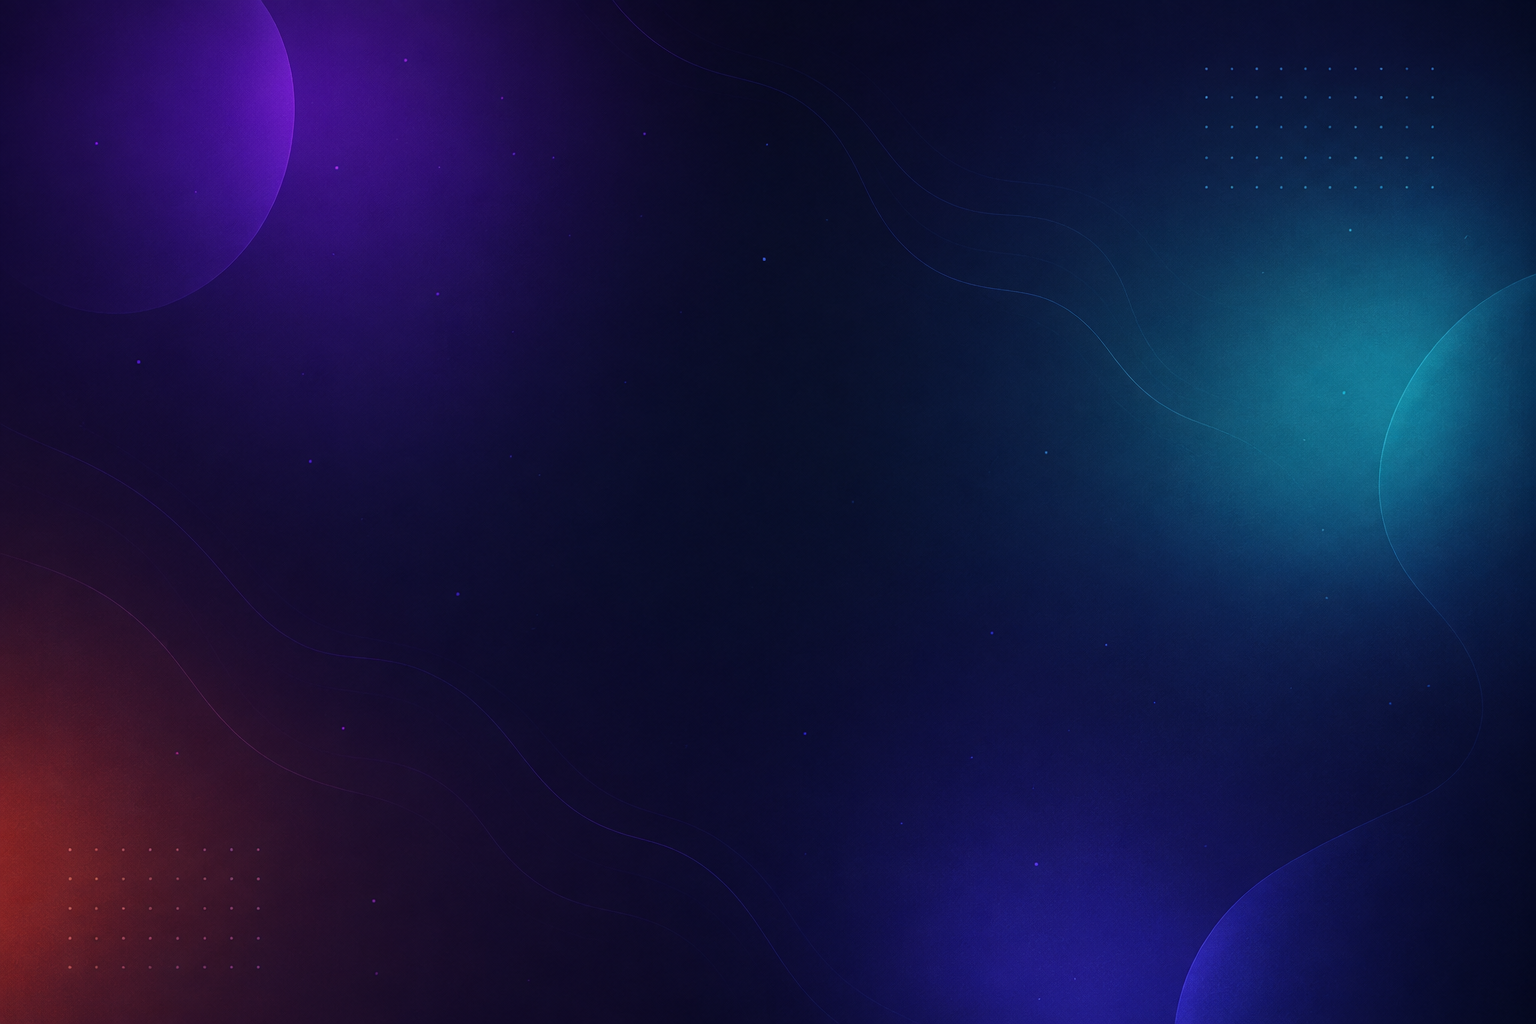
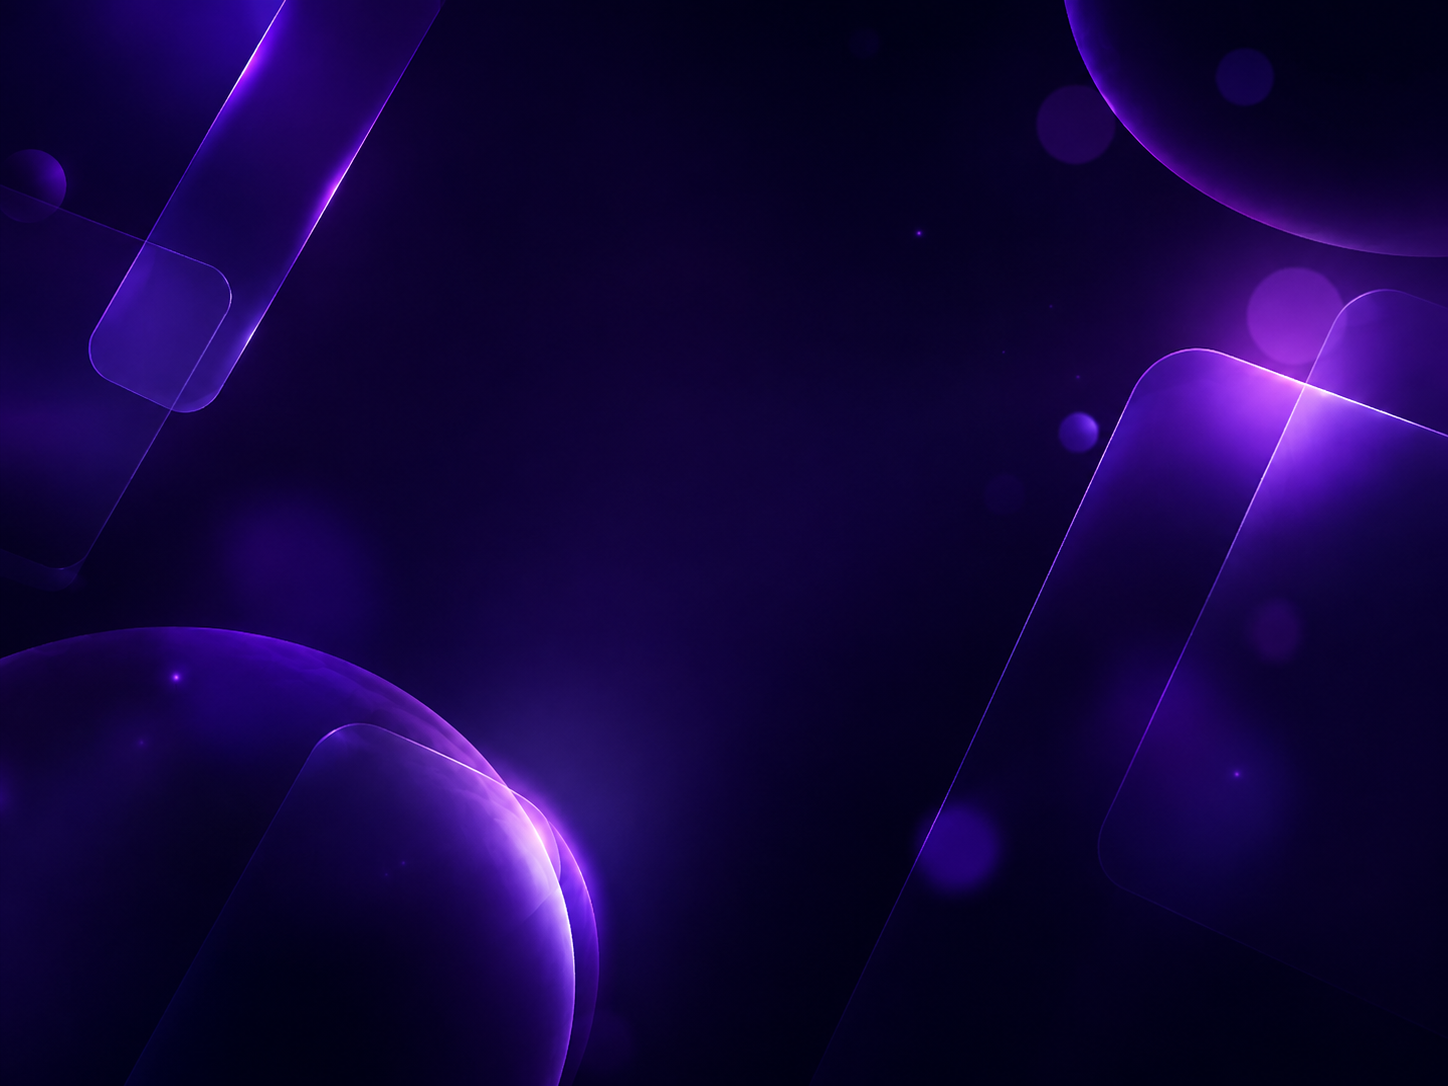
New: UI da sidebar finalizado

diff --git a/src/components/dashboard/dashboardSideBar.vue b/src/components/dashboard/dashboardSideBar.vue
@@ -1,23 +1,110 @@
+<script setup lang="ts">
+
+  const user = {
+    name: 'Arthur'
+  }
+
+
+</script>
+
 <template>
-  <v-card color="transparent" flat>
-    <v-layout>
-      <v-navigation-drawer theme="dark" permanent class="glass-card">
-        <v-list nav class="bg-transparent">
-          <v-list-item prepend-icon="mdi-home" title="Dashboard" value="dashboard"/>
+  <v-card color="transparent" flat class="w-100 h-100">
+    <v-layout class="h-100">
+      <v-navigation-drawer theme="dark" permanent class="dark-glass-card rounded-xl">
+        <v-list nav class="bg-transparent d-flex flex-column justify-space-between h-100">
+          
+          <div class="d-flex flex-column ga-5">
+            <div class="d-flex w-100 justify-center">
+              <p>Axis</p>
+            </div>
 
-          <v-list-item prepend-icon="mdi-calendar" title="Calendar" value="calendar"/>
+            <div class="d-flex flex-column ga-2">
+              <v-list-item title="Dashboard" class="item">
+                <template #prepend>
+                  <v-icon class="menu-icon">mdi-home-outline</v-icon>
+                </template>
+              </v-list-item>
 
-          <v-list-item prepend-icon="mdi-flag" title="Goals" value="goals"/>
+              <v-list-item title="Calendar" class="item">
+                <template #prepend>
+                  <v-icon class="menu-icon">mdi-calendar-outline</v-icon>
+                </template>
+              </v-list-item>
 
-          <v-list-item prepend-icon="mdi-book" title="Subjects" value="subjects"/>
+              <v-list-item title="Goals" class="item">
+                <template #prepend>
+                  <v-icon class="menu-icon">mdi-flag-outline</v-icon>
+                </template>
+              </v-list-item>
 
-          <v-list-item prepend-icon="mdi-" title="Progress" value="progress"/>
+              <v-list-item title="Subjects" class="item">
+                <template #prepend>
+                  <v-icon class="menu-icon">mdi-book-outline</v-icon>
+                </template>
+              </v-list-item>
 
-          <v-list-item prepend-icon="mdi-settings" title="Settings" value="settings"/>
+              <v-list-item title="Progress" class="item">
+                <template #prepend>
+                  <v-icon class="menu-icon">mdi-chart-line</v-icon>
+                </template>
+              </v-list-item>
+
+              <v-list-item title="Settings" class="item">
+                <template #prepend>
+                  <v-icon class="menu-icon">mdi-cog-outline</v-icon>
+                </template>
+              </v-list-item>
+            </div>
+          </div>
+
+          <div class="mb-2">
+            <v-list-item  :title="user.name" value="profile" class="item" prepend-avatar="https://randomuser.me/api/portraits/women/8.jpg"/>
+          </div>
         </v-list>
       </v-navigation-drawer>
-
-      <v-main style="height: 500px" />
     </v-layout>
   </v-card>
 </template>
+
+<style scoped>
+.item {
+  border-radius: 12px;
+  color: #b8b8c7;
+
+  transition: all 0.3s ease;
+
+  border: 1px solid transparent;
+
+  cursor: pointer;
+}
+
+.item:hover {
+
+    transform: translateY(-3px);
+  color: white;
+
+  background: linear-gradient(
+    135deg,
+    rgba(139, 92, 246, 0.28),
+    rgba(99, 102, 241, 0.18)
+  );
+
+  border-color: rgba(167, 139, 250, 0.55);
+
+  box-shadow:
+    0 0 12px rgba(139, 92, 246, 0.35),
+    inset 0 0 12px rgba(139, 92, 246, 0.08);
+}
+
+.item:hover {
+  color: #ffff;
+
+   .menu-icon{
+    color: #ffff;
+   }
+}
+
+.menu-icon {
+  color: #b8b8c7;
+}
+</style>

diff --git a/src/pages/dashboard.vue b/src/pages/dashboard.vue
@@ -8,12 +8,10 @@ import DashboardUpperBar from '@/components/dashboard/dashboardUpperBar.vue';
 </script>
 
 <template>
-
-    <v-row class="backgroudDashboard pa-10">
+    <v-row class="backgroudDashboard pa-10 overflow-hidden" style="height: 100vh;">
 
             <v-col cols="2">
-                <DashboardSideBar />
-                        
+                <DashboardSideBar />    
             </v-col>
 
             <v-col cols="10" >
@@ -22,8 +20,7 @@ import DashboardUpperBar from '@/components/dashboard/dashboardUpperBar.vue';
                 </v-row>
 
                 <v-row>
-                    <v-col cols="9">
-                        <dashboardCalendar />
+                    <v-col cols="9" class="d-flex">
                     </v-col>
 
                     <v-col cols="3">

diff --git a/src/styles/global.scss b/src/styles/global.scss
@@ -1,4 +1,12 @@
-  .glass-card {
+@import url('https://fonts.googleapis.com/css2?family=Manrope:wght@400;500;600;700&display=swap');
+
+html,
+body,
+.v-application {
+  font-family: 'Manrope', sans-serif;
+}
+
+.light-glass-card {
     background: rgba(255, 255, 255, 0.045);
 
   backdrop-filter: blur(20px);
@@ -9,8 +17,8 @@
   box-shadow: 0 8px 32px rgba(0, 0, 0, 0.25);
 }
 
-  .goalCard {
-    background: rgba(105, 191, 253, 0.459);
+.dark-glass-card {
+    background: rgba(10, 10, 10, 0.079);
 
   backdrop-filter: blur(20px);
   -webkit-backdrop-filter: blur(20px);
@@ -19,6 +27,7 @@
 
   box-shadow: 0 8px 32px rgba(0, 0, 0, 0.25);
 }
+
 
 .background {
   background-image: url('@/assets/loginBackground.jpg');

diff --git a/src/pages/sign.vue b/src/pages/sign.vue
@@ -44,7 +44,7 @@
 <template>
   <v-app class="background">
         <v-container class="fill-height d-flex justify-center align-center">
-            <v-card class="mx-auto d-flex align-center flex-column pa-2 glass-card"  width="400" variant="outlined" color="white"> 
+            <v-card class="mx-auto d-flex align-center flex-column pa-2 light-glass-card"  width="400" variant="outlined" color="white"> 
                 <template v-slot:title > <span class="font-weight-black" >Sign in to Axis App</span> </template>
                 <v-card-text class="w-100 mt-5">
                     <v-form @submit.prevent='login' ref="form">

diff --git a/src/pages/login.vue b/src/pages/login.vue
@@ -44,7 +44,7 @@
 <template>
   <v-app class="background">
         <v-container class="fill-height d-flex justify-center align-center">
-            <v-card class="mx-auto d-flex align-center flex-column pa-2 glass-card"  width="400" variant="outlined" color="white"> 
+            <v-card class="mx-auto d-flex align-center flex-column pa-2 light-glass-card"  width="400" variant="outlined" color="white"> 
                 <template v-slot:title > <span class="font-weight-black" >Log in to Axis App</span> </template>
                 <v-card-text class="w-100 mt-5">
                     <v-form @submit.prevent='login' ref="form">
